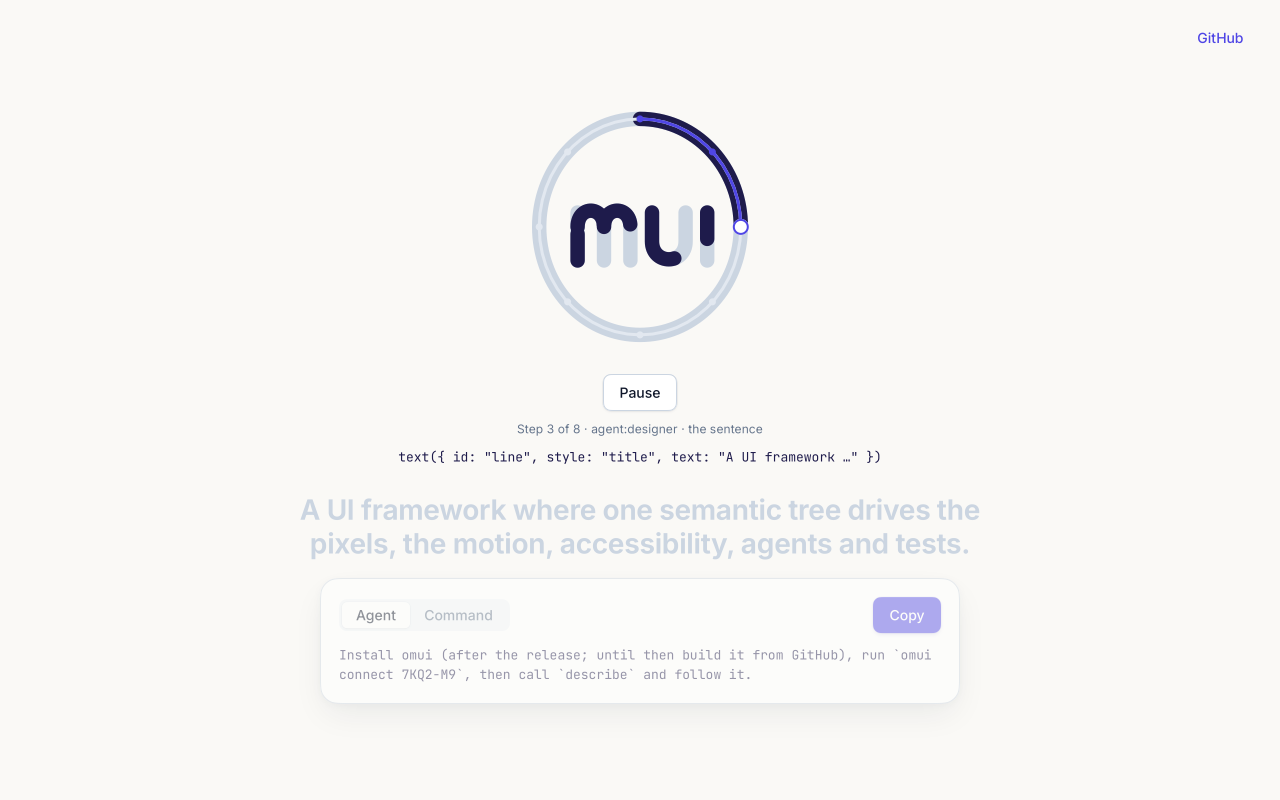
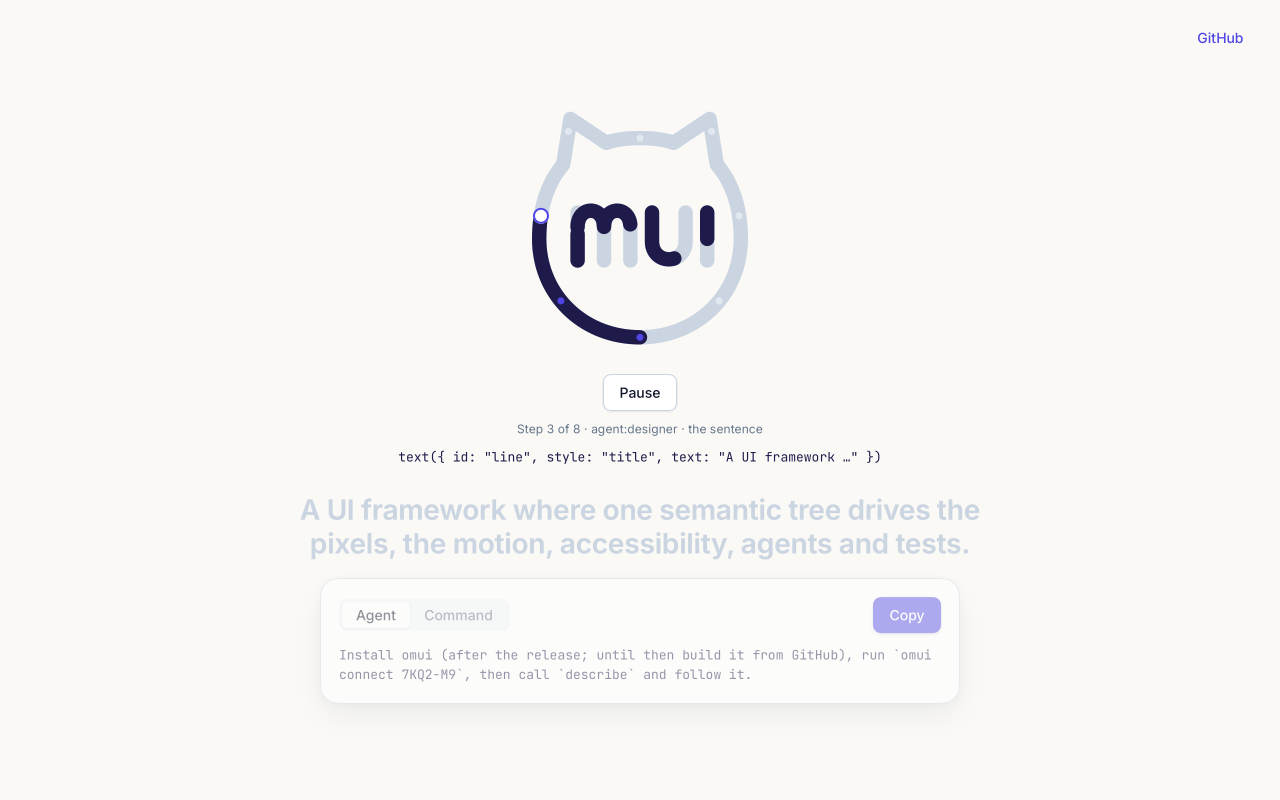
G5 step 2: the review applied — the O with ears becomes Mui; the course is the O's own stroke
The five questions of the sketches, decided 2026-11-20 (site/page/README.md):
1. The O: outline A of site/brand/marks.mark.xdef.json, with ears. Connected, the same path is
   filled with Mui's colour and her face (head16's eyes, light, blush and mouth, every pixel a
   vector square) is drawn in it: the mark becomes Mui rather than holding her head; its name for a
   reader says so ("Mui").
2. The sentence: the README's (claims ledger in G7).
3. The Live Design key: under the mark.
4. The course: the O's own stroke, drawn in ink as far as the design has come; `timeline` gains
   `line` (default true): false draws only the marks and the playhead, the shape its owner's.
5. The palette: ink and indigo on paper; a dark variant from the theme later.

Evidence: the eight captures redrawn through the protocol (omui-player --serve, omui agent invoke
page.state, wait --settled, capture) at 1280x800 and 390x844; site/page page_test (the mark named
Mui when connected and omui not; four different pictures; rest again the first), ui.base
timeline_test 5 cases (line false: nothing between two marks where the track was).

Changed region(s): [[0.4375, 0.125, 0.5938, 0.375], [0.4062, 0.2188, 0.5312, 0.4375], [0.5312, 0.375, 0.5625, 0.4062]]

diff --git a/site/page/app/main.ts b/site/page/app/main.ts
@@ -19,12 +19,12 @@ const muted = "#64748b";
 const paper = "#faf9f6";
 const sketch = "#cbd5e1";
 
-// The mark (site/brand/marks.mark.xdef.json, today's outline): an O around the word, in a 100-unit square.
-const ring = "M50 5C73.2 5 92 25.1 92 50C92 74.9 73.2 95 50 95C26.8 95 8 74.9 8 50C8 25.1 26.8 5 50 5Z";
+// The mark (site/brand/marks.mark.xdef.json, outline A): an O with Mui's ears around the word, in a 100-unit square.
+const ring = "M50 96C26 96 8 78 8 55C8 41 12 31 18 24L21 5L36 15C40 13.5 45 13 50 13C55 13 60 13.5 64 15L79 5L82 24C88 31 92 41 92 55C92 78 74 96 50 96Z";
 const letters = "M24 64L24 44M24 50C24 41 35 41 35 50L35 64M35 50C35 41 46 41 46 50L46 64M55 44L55 56C55 66 69 66 69 56L69 44M78 44L78 64";
 const dot = "M75.5 35A2.5 2.5 0 1 0 80.5 35A2.5 2.5 0 1 0 75.5 35Z";
 // The same O in a 1×1 box: the course Live Design's steps lie along.
-const course = "M0.5 0.05C0.732 0.05 0.92 0.251 0.92 0.5C0.92 0.749 0.732 0.95 0.5 0.95C0.268 0.95 0.08 0.749 0.08 0.5C0.08 0.251 0.268 0.05 0.5 0.05Z";
+const course = "M0.5 0.96C0.26 0.96 0.08 0.78 0.08 0.55C0.08 0.41 0.12 0.31 0.18 0.24L0.21 0.05L0.36 0.15C0.4 0.135 0.45 0.13 0.5 0.13C0.55 0.13 0.6 0.135 0.64 0.15L0.79 0.05L0.82 0.24C0.88 0.31 0.92 0.41 0.92 0.55C0.92 0.78 0.74 0.96 0.5 0.96Z";
 
 // Mui's head (site/brand/mascot.sprite.xdef.json, head16 idle): every pixel a vector square, one path a colour.
 const head = [
@@ -34,10 +34,13 @@ const head = [
   ".obbbbbbbbbbbbo.", "..oobbbbbbbboo..", "....oooooooo....", "................",
 ];
 const palette: Record<string, string> = { o: "#1e1b4b", b: "#4f46e5", l: "#818cf8", w: "#ffffff", p: "#1e1b4b", k: "#f9a8d4", s: "#4338ca" };
-function cells(letter: string): string {
+// Mui's face alone (rows 6 to 10: the eyes, their light, the blush, the mouth): connected, the O with ears is Mui's
+// own outline, filled with her colour, and the face is drawn in it.
+function face(letter: string): string {
   let data = "";
   head.forEach((line, y) => {
-    for (let x = 0; x < line.length; x++) if (line[x] === letter) data += `M${x} ${y}h1v1h-1Z`;
+    if (y < 6 || y > 10) return;
+    for (let x = 2; x < 14; x++) if (line[x] === letter && (letter !== "o" || y >= 9)) data += `M${x} ${y}h1v1h-1Z`;
   });
   return data;
 }
@@ -62,21 +65,25 @@ const mark = stack({ id: "mark", width: side + 20, height: side + 20, alignItems
   path({ id: "breath", d: ring, stroke: accent, strokeWidth: 2, width: side, height: side,
          opacity: select(waiting, 0.28, 0), scale: 1.1 }),
   path({ id: "o", d: ring, stroke: select(designing, sketch, ink), strokeWidth: 6, width: side, height: side,
-        trim: select(waiting, 0.9, 1), label: "omui" }),
+        fill: select(connected, palette.b, ""), trim: select(waiting, 0.9, 1), label: select(connected, "Mui", "omui") }),
   when(designing, [
     path({ id: "o-grown", d: ring, stroke: ink, strokeWidth: 6, width: side, height: side, trim: (at - 1) / steps }),
     path({ id: "word-sketch", d: letters, stroke: sketch, strokeWidth: 6, width: side, height: side }),
     path({ id: "word-grown", d: letters, stroke: ink, strokeWidth: 6, width: side, height: side, trim: 0.55 }),
-    timeline({ id: "steps", shape: course, steps, value: at, label: "The page's design", width: side + 20, height: side + 20,
+    // The course is the O's own stroke (grown in ink as far as the design has come): the timeline adds its marks and
+    // its playhead on it, no line of its own.
+    timeline({ id: "steps", shape: course, steps, value: at, line: false, label: "The page's design", width: side + 20, height: side + 20,
                captions: ["The mark", "Its O", "The sentence", "The Live Design key", "The install", "Its two tabs", "Light", "At rest"] }),
   ], [
     when(connected, [
-      path({ id: "mui-o", d: cells("o"), fill: palette.o, viewBox: "0 0 16 16", width: side * 0.62, height: side * 0.62 }),
-      path({ id: "mui-b", d: cells("b"), fill: palette.b, viewBox: "0 0 16 16", width: side * 0.62, height: side * 0.62 }),
-      path({ id: "mui-l", d: cells("l"), fill: palette.l, viewBox: "0 0 16 16", width: side * 0.62, height: side * 0.62 }),
-      path({ id: "mui-w", d: cells("w"), fill: palette.w, viewBox: "0 0 16 16", width: side * 0.62, height: side * 0.62 }),
-      path({ id: "mui-p", d: cells("p"), fill: palette.p, viewBox: "0 0 16 16", width: side * 0.62, height: side * 0.62 }),
-      path({ id: "mui-k", d: cells("k"), fill: palette.k, viewBox: "0 0 16 16", width: side * 0.62, height: side * 0.62 }),
+      column({ id: "mui", width: side, height: side, alignItems: "center", paddingTop: side * 0.2 }, [
+        stack({ width: side * 0.6, height: side * 0.35 }, [
+          path({ id: "mui-eyes", d: face("p"), fill: palette.p, viewBox: "2 6 12 5", width: side * 0.6, height: side * 0.25 }),
+          path({ id: "mui-light", d: face("w"), fill: palette.w, viewBox: "2 6 12 5", width: side * 0.6, height: side * 0.25 }),
+          path({ id: "mui-blush", d: face("k"), fill: palette.k, viewBox: "2 6 12 5", width: side * 0.6, height: side * 0.25 }),
+          path({ id: "mui-mouth", d: face("o"), fill: palette.o, viewBox: "2 6 12 5", width: side * 0.6, height: side * 0.25 }),
+        ]),
+      ]),
     ], [
       path({ id: "word", d: letters, stroke: ink, strokeWidth: 6, width: side, height: side }),
       path({ id: "dot", d: dot, fill: ink, width: side, height: side }),

diff --git a/modules/projects/omui/components/base/contract/timeline.contract.xdef.ts b/modules/projects/omui/components/base/contract/timeline.contract.xdef.ts
@@ -21,6 +21,11 @@ export default defineContract({
         doc: "line, ring (from the top, clockwise), or SVG path data in a 1×1 box (M0 0.5 L1 0.5), scaled to its own.",
       },
       captions: { type: "list<string>", default: [], doc: "Each step's words, said when it is at that step (none: step n of m)." },
+      line: {
+        type: "bool",
+        default: true,
+        doc: "Its track and the part played drawn; false: only the marks and the playhead, on a shape its owner draws itself (the site's O).",
+      },
       label: { type: "string", default: "Timeline", doc: "The accessible name." },
       disabled: { type: "bool", default: false },
     },

diff --git a/modules/projects/omui/components/base/tests/base/timeline_test.cpp b/modules/projects/omui/components/base/tests/base/timeline_test.cpp
@@ -127,6 +127,27 @@ static UTest cases{"ui.base.timeline", [] {
         expect(near(wrong->point_at(1, {240, 28}), {10, 14}) && near(wrong->point_at(3, {240, 28}), {230, 14})) << "laid as a line";
     };
 
+    "line false: the marks and the playhead alone, on a shape its owner draws (the site's O)"_test = [] {
+        // A line of three steps, at the first: between the second mark and the third only the track is drawn.
+        const auto drawn = [](bool line) {
+            Headless h(HeadlessOptions{.size = {240, 40}, .fonts = &fonts(), .parallel_raster = false});
+            h.mount("main", column({}, {timeline({.id = "course", .line = line, .steps = 3, .value = 1.0, .width = 240.0f, .height = 40.0f})}));
+            h.settle();
+            return std::pair{hash_of(h.pixels()), h.pixels().row(20)[175]};
+        };
+        const auto [with_line, track] = drawn(true);
+        const auto [without, bare] = drawn(false);
+        expect(with_line != without) << "the track is gone";
+        const auto [empty, background] = [] {
+            Headless h(HeadlessOptions{.size = {240, 40}, .fonts = &fonts(), .parallel_raster = false});
+            h.mount("main", column({}, {}));
+            h.settle();
+            return std::pair{hash_of(h.pixels()), h.pixels().row(20)[175]};
+        }();
+        expect(bare == background && !(track == background)) << "between two marks: the track drawn with it, nothing without";
+        (void)empty;
+    };
+
     "its playhead carried to the step by the style's motion (default.value): part-way between, at rest the drawing motion off gives"_test = [] {
         const auto scene = [](Headless& h, Signal<double> at) {
             h.mount("main", column({.padding = 20}, {timeline({.id = "course", .shape = "ring", .steps = 5, .value = at, .width = 120.0f, .height = 120.0f})}));

diff --git a/modules/projects/omui/components/base/src/timeline.cpp b/modules/projects/omui/components/base/src/timeline.cpp
@@ -123,11 +123,15 @@ void Timeline::paint(PaintContext& ctx) const {
     for (std::size_t index = 1; index < laid.points.size(); ++index) path.line_to(laid.points[index]);
     if (laid.closed) path.close();
     const Rect whole{0, 0, ctx.size.width, ctx.size.height};
-    ctx.part({.role = "track", .allocation = whole}, [&] {
-        ctx.list.stroke_path(path, {.width = track_width, .cap = xrender::LineCap::round, .join = xrender::LineJoin::round}, xrender::Paint::solid(th.color("track")));
-    });
+    // The track and the part played, unless the shape is its owner's to draw (`line` false: the marks and the playhead
+    // on it alone).
+    if (props.line)
+        ctx.part({.role = "track", .allocation = whole}, [&] {
+            ctx.list.stroke_path(path, {.width = track_width, .cap = xrender::LineCap::round, .join = xrender::LineJoin::round},
+                                 xrender::Paint::solid(th.color("track")));
+        });
     const float played = fraction_of(props.value);
-    if (played > 0)
+    if (props.line && played > 0)
         ctx.part({.role = "played", .allocation = whole}, [&] {
             ctx.list.stroke_path(path, {.width = track_width, .cap = xrender::LineCap::round, .join = xrender::LineJoin::round, .trim_end = played},
                                  xrender::Paint::solid(th.color("accent")));

diff --git a/site/page/tests/page_test.cpp b/site/page/tests/page_test.cpp
@@ -78,8 +78,10 @@ static UTest cases{"site.page", [] {
         expect(shows(host, Role::button, "Copied") && host.tree().find({.role = Role::slider}).empty());
         const auto waiting = picture(host);
 
-        // Connected: the visitor's agent and its omui beside the mark.
+        // Connected: the mark has become Mui (the O with ears her outline, her face in it); the visitor's agent and its
+        // omui beside it.
         expect(eq(set("connected"), 0));
+        expect(shows(host, Role::image, "Mui") && !shows(host, Role::image, "omui")) << "the O is Mui";
         expect(!host.tree().find({.name = "Claude Code · omui 0.1.0 · linux-x64"}).empty()) << "the agent's chip";
         const auto connected = picture(host);
 

diff --git a/site/page/README.md b/site/page/README.md
@@ -2,14 +2,14 @@
 
 omui's site as one page: the mark, one sentence, the Live Design key and the install, in four states of one picture (G5; [the site's design](../../.agents/docs/2026-11-19-site-live-design-design.md) §4).
 
-The page is TypeScript (`app/main.ts`) run by the player, like any omui application. It is made by an agent in Live Design. When it lands, it replaces the C++ site under `../src`. **This round is the art direction's sketch**, which the design asks for before G5 starts: the four states, each drawn offscreen at 1280×800 and 390×844.
+The page is TypeScript (`app/main.ts`) run by the player, like any omui application. It is made by an agent in Live Design. When it lands, it replaces the C++ site under `../src`. **The art direction's sketch, reviewed (2026-11-20)**: the four states, each drawn offscreen at 1280×800 and 390×844; the five questions below decided.
 
 | State | Desktop | Phone | What it says |
 |---|---|---|---|
 | At rest | ![At rest](media/sketch-rest-1280.png) | [390](media/sketch-rest-390.png) | The mark, the sentence, a lot of room. The install is the one accented action; Live Design is a quiet key under the mark. |
-| Live Design | ![Live Design](media/sketch-design-1280.png) | [390](media/sketch-design-390.png) | The page is back to its sketch (grey) and grows again step by step. The mark's O is the course of the design's steps: the part grown is drawn in ink, with the playhead at step 3 of 8. Under the key: the step, its maker and the source it wrote. |
+| Live Design | ![Live Design](media/sketch-design-1280.png) | [390](media/sketch-design-390.png) | The page is back to its sketch (grey) and grows again step by step. The mark's O is the course of the design's steps: its own stroke is drawn in ink as far as the design has come, the steps' marks and the playhead (step 3 of 8) on it. Under the key: the step, its maker and the source it wrote. |
 | Waiting | ![Waiting](media/sketch-waiting-1280.png) | [390](media/sketch-waiting-390.png) | The prompt is copied ("Copied"). The O opens, with a fainter, wider O breathing around it. The pairing code is in the copied words only. |
-| Connected | ![Connected](media/sketch-connected-1280.png) | [390](media/sketch-connected-390.png) | The O closes and the word becomes Mui (head16, every pixel a vector square). The visitor's agent and its omui appear beside it. The structure the agent changed is outlined and named for that moment. |
+| Connected | ![Connected](media/sketch-connected-1280.png) | [390](media/sketch-connected-390.png) | The O closes and becomes Mui: the O with ears is her outline, filled with her colour, her face drawn in it (head16's, every pixel a vector square). The visitor's agent and its omui appear beside it. The structure the agent changed is outlined and named for that moment. |
 
 ## How the sketches are drawn
 
@@ -26,8 +26,8 @@ omui agent capture sitepage --out media/sketch-waiting-1280.png
 
 ## Drawn with
 
-- `path` (omui.ui.base) draws the mark's O, its word and Mui's pixels, scaled from their view boxes. The waiting O is the same path with `trim` 0.9.
-- `timeline` (omui.ui.base) lays the design's eight steps along the O (`shape`: the O in a 1×1 box).
+- `path` (omui.ui.base) draws the mark's O (outline A of `../brand/marks.mark.xdef.json`: with ears), its word and Mui's face, scaled from their view boxes. The waiting O is the same path with `trim` 0.9; connected, the same path filled.
+- `timeline` (omui.ui.base) lays the design's eight steps along the O (`shape`: the O in a 1×1 box; `line: false`: the O's own stroke is the course, the timeline adds the marks and the playhead).
 - `segmented`, `button` and `text` come from the theme's defaults. The colours are the brand's (`#1e1b4b` ink, `#4f46e5` accent) on `#faf9f6` paper.
 
 ## Not in this round
@@ -42,10 +42,10 @@ omui agent capture sitepage --out media/sketch-waiting-1280.png
 
 The page carries a copy of head16's rows from `../brand/mascot.sprite.xdef.json`, because this round does not read the brand's file from the script.
 
-## Open for review
+## Decided in review (2026-11-20)
 
-1. **The O.** Today's ellipse is drawn. `../brand/marks.mark.xdef.json` also holds ears (A), a tail (B) and both (C). With ears, the O itself could become Mui's outline when connected, instead of holding Mui's head.
-2. **The sentence.** It is the README's: "A UI framework where one semantic tree drives the pixels, the motion, accessibility, agents and tests." It is held to the claims ledger in G7.
-3. **The Live Design key.** It sits under the mark (the O is its timeline). The design's first wording put it beside the install.
-4. **Live Design's course.** The timeline's thin accent line runs inside the O's ink. The alternative: the O's own stroke is the played part, with only the marks and the playhead on it.
-5. **The palette.** Ink and indigo on paper, with no dark variant yet.
+1. **The O.** Outline A, the O with ears: connected, it becomes Mui's own outline (filled, her face in it) instead of holding her head.
+2. **The sentence.** The README's, held to the claims ledger in G7.
+3. **The Live Design key.** Under the mark: the O is its timeline.
+4. **Live Design's course.** The O's own stroke is the played part; only the marks and the playhead are on it (`timeline`'s `line: false`).
+5. **The palette.** Ink and indigo on paper; a dark variant later, from the theme's tokens, not the page.

diff --git a/.agents/docs/STATUS.md b/.agents/docs/STATUS.md
@@ -50,7 +50,7 @@ The foundation (mlibs, xrender, hanim, mlibs.dynamics) and the framework (omui);
 | G9 the visitor's own agent in the tab | done (Pages, 22 of 22 at 051825b8) | Already there (D-95): bridge, pairing, `omui page …`. The prompt is one sentence (install as agent.md says, `omui connect <code>`, `omui page describe`), a Command tab beside it; paired, `omui connect` says so and prints the page's own description (D-186) for a person who typed it. Site 32, cli 17 cases pass; the visitor path here, 22 steps (694326a9). On Pages at 051825b8 (https): 22 of 22 — the sweep's undo that missed once at 5c051edd held |
 | G2 the static HTML of a page, its semantic tree projected (D-236) | done (steps 1–5) | `static_html(snapshot)`; `--static-html FILE`; `omui-gen dist-toy[-document]`: the projection over the canvas until presented, then hidden; share card; `omui build --web` runs both. C++ template (out of tree). Step 4, TS apps: the page carries the manifest and scripts into the player's files before main (example 02 in Chromium). Step 5: a node's `level` (openmui 0.4.2, openlifa/openmui#2): a TS title `role: "heading", level: 1` is the page's h1 |
 | G8 limited Live Design on the page: the theme a surface, customization a layer, generation on the Web host, the design shown in place (D-253) | done (steps 1–6; `check live-page` 27 of 27 at 09f02d6c) | 1–2: the theme a surface; `customization@1`. 3a: versions in the page's storage. 4: `replay@1` played in place (`generate.replay`). 5: each step's maker at what it built; the card. 6: presence the windowed hosts' default (`omui.presence`), its frame carried by the default recipe; `timeline`, steps on a line, ring or path (openmui 0.4.3), the card's. Held in Chromium on example 13 |
-| G5 the site's one page, made by an agent in Live Design in TS (sketches first) | sketches drawn, for review | `path` (ui.base): SVG path data in the theme's colours, `trim` drawing it in part (openmui 0.4.4, #4). `site/page`: the page in TS, its four states (rest, Live Design, waiting, connected) set by its verb `page.state`, drawn through the protocol (`omui agent invoke`, `wait --settled`, `capture`) at 1280×800 and 390×844 (`site/page/media`); five questions open in its README. Next: the review, then the page proper |
+| G5 the site's one page, made by an agent in Live Design in TS (sketches first) | in progress (step 2: the review applied) | Sketches reviewed 2026-11-20, the five questions decided (`site/page/README.md`): the O with ears (outline A) becomes Mui when connected, filled, her face in it; in Live Design the O's own stroke is the course, `timeline`'s new `line: false` adding only the marks and the playhead. Eight captures redrawn through the protocol; page_test (Mui named when connected; four pictures), timeline_test 5. Next: the page proper (motion, the real replay, the bridge) |
 | RC3.1 the release channel | in progress (mcpp#947 closed: 2026.11.17.2) | `omui-devtools release index`: the templates' closure (65 packages, their 21 outside dependencies all in mcpp-index), then `mcpp publish --dry-run` over it — an archive by identity, a descriptor each (siblings at their own versions), sums a tag (spec 0.3.0 apart). Our versions workaround gone (`release versions`, lint `versions`, 392 edges in 56 manifests) and our descriptor writer; four libraries given their `repo`. Next: publish (the maintainer's), the CN mirror's URLs. Evidence: release_test 4, index 65/65 here |
 | RC3.5 user documentation | in progress (parts 1–3) | lint `docs-code`: every guide block is a region of a file CI runs, or sh; en/zh headings matched. Generated and held current by `omui-devtools docs`: `maturity.md`, `experimental.md`, `reference.md` (25 operation catalogs, 82 component contracts, evaluated from their declarations, D-145). Guide `world3d.md` (Quay: bodies, crowd, branches, hearing, picture; troubleshooting). Troubleshooting in every guide (7f824ba3). Evidence: 7c0ac034, fa4b80c9; devtools.docs 4 cases. Left: install-first start (RC3.1) |
 | RC3.6 the application fundamentals per tier-1 platform | in progress | Platform table: first frame, keyboard, scale, lifecycle beside IME, gamepad, the bridge, the weak machine. Keyboard: Tab reaches all 36 wall cards (`site.wall`). Scale: headless follows a display's scale. A lost device ends the app with a message. First frame (`--frames N`): CPU 41–53 ms, GPU 207–334 ms (release); device made beside fonts and window: 209–328 vs 403–596 ms (dev A/B). CI holds the first frame (`host.sdl3`: CPU < 1 s, GPU < 3 s where a device is; here 4.5 and 236 ms). Left: sleep and resume on machines |

diff --git a/modules/projects/omui/components/base/README.md b/modules/projects/omui/components/base/README.md
@@ -40,7 +40,7 @@ made into code when the package builds — `build.mcpp`, omui.build.contracts):
 | `range_slider` | `group` | two thumbs on one track, the low never past the high; each a slider of its own (`<id>/low`, `<id>/high`); dragged (taken back whole), stepped (Tab between them), set |
 | `alert` | `status` | a message in the page that needs attention: its tone said, a title, one action at most, dismissible when it may be (then hidden to every reader) |
 | `stepper` | `navigation` | the steps of a sequence: done (checked), current, ahead; a done one gone back to (`<id>/<index>`), ahead only when `free`; taken back |
-| `timeline` | `slider` | a course of steps on a shape of its own (G8, D-253): a `line`, a `ring` (from the top, clockwise; the site draws it on its mark) or SVG path data in a 1×1 box, the steps at equal lengths along it (a ring's last before its first again); pressed or dragged, the shape's nearest point takes the nearest step; keys and an agent move it as a slider's value, each move taken back; its words the step's caption. Its parts (track, played, each `mark` by its number, `playhead`) are moved by the style (`default.value`); off a line each step's playhead is its own part, so it fades out and in rather than cutting across the shape (a part carried along its shape needs a course the motion follows: not yet) |
+| `timeline` | `slider` | a course of steps on a shape of its own (G8, D-253): a `line`, a `ring` (from the top, clockwise; the site draws it on its mark) or SVG path data in a 1×1 box, the steps at equal lengths along it (a ring's last before its first again); pressed or dragged, the shape's nearest point takes the nearest step; keys and an agent move it as a slider's value, each move taken back; its words the step's caption. Its parts (track, played, each `mark` by its number, `playhead`; `line: false` leaves the track and the part played to the shape's owner, as the site's O draws them) are moved by the style (`default.value`); off a line each step's playhead is its own part, so it fades out and in rather than cutting across the shape (a part carried along its shape needs a course the motion follows: not yet) |
 | `path` | `image` | a vector shape from SVG path data (G5): the site's mark, an icon, a drawing, scaled from its `view_box` into its own box with the ratio kept and centred (unsized: the box's ratio at 24 high), stroked and filled in the theme's colours (a token or `#rrggbb`), its stroke drawn from its start up to `trim`; data that is not a path draws nothing. Its one part (`shape`) is moved by the style; one shape becoming another is the style's, not the component's (D-93) |
 | `date_picker` | `combo_box` | an ISO date chosen from a month's calendar (arrows a day or a week, PageUp/PageDown a month, Enter chooses); any date an item of the picker an agent chooses without opening it (`<id>/2026-11-05`), within `min`–`max`; the month's days and its arrows items while open |
 | `time_picker` | `group` | a time of day, its hours and minutes spin buttons of their own (`<id>/hours`, `<id>/minutes`; `<id>/period` in 12-hour), stepped (Up, Down; Left, Right between them) or typed, kept on `step` minutes |
